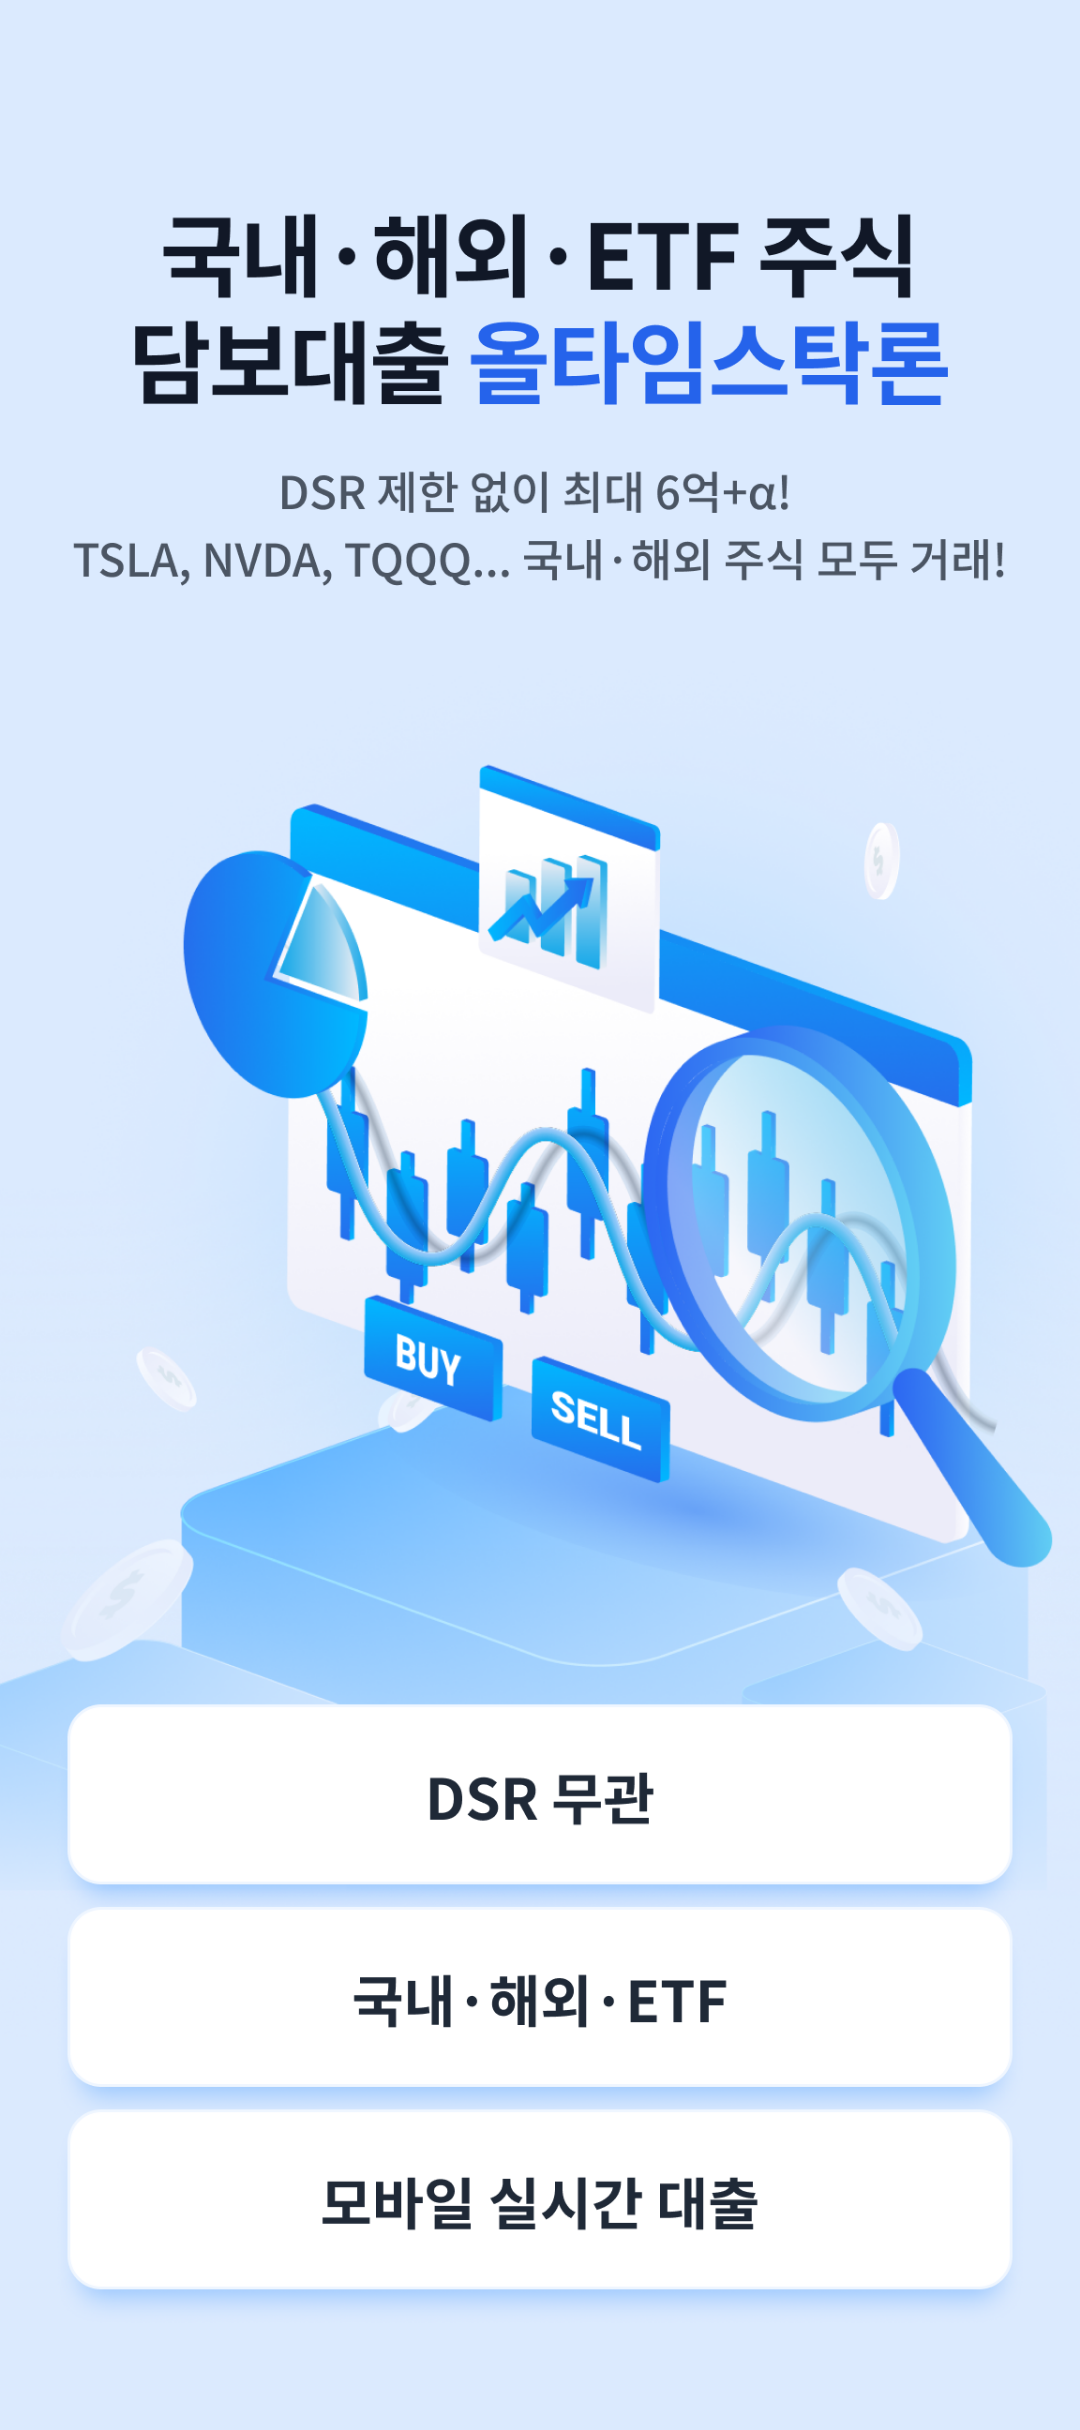
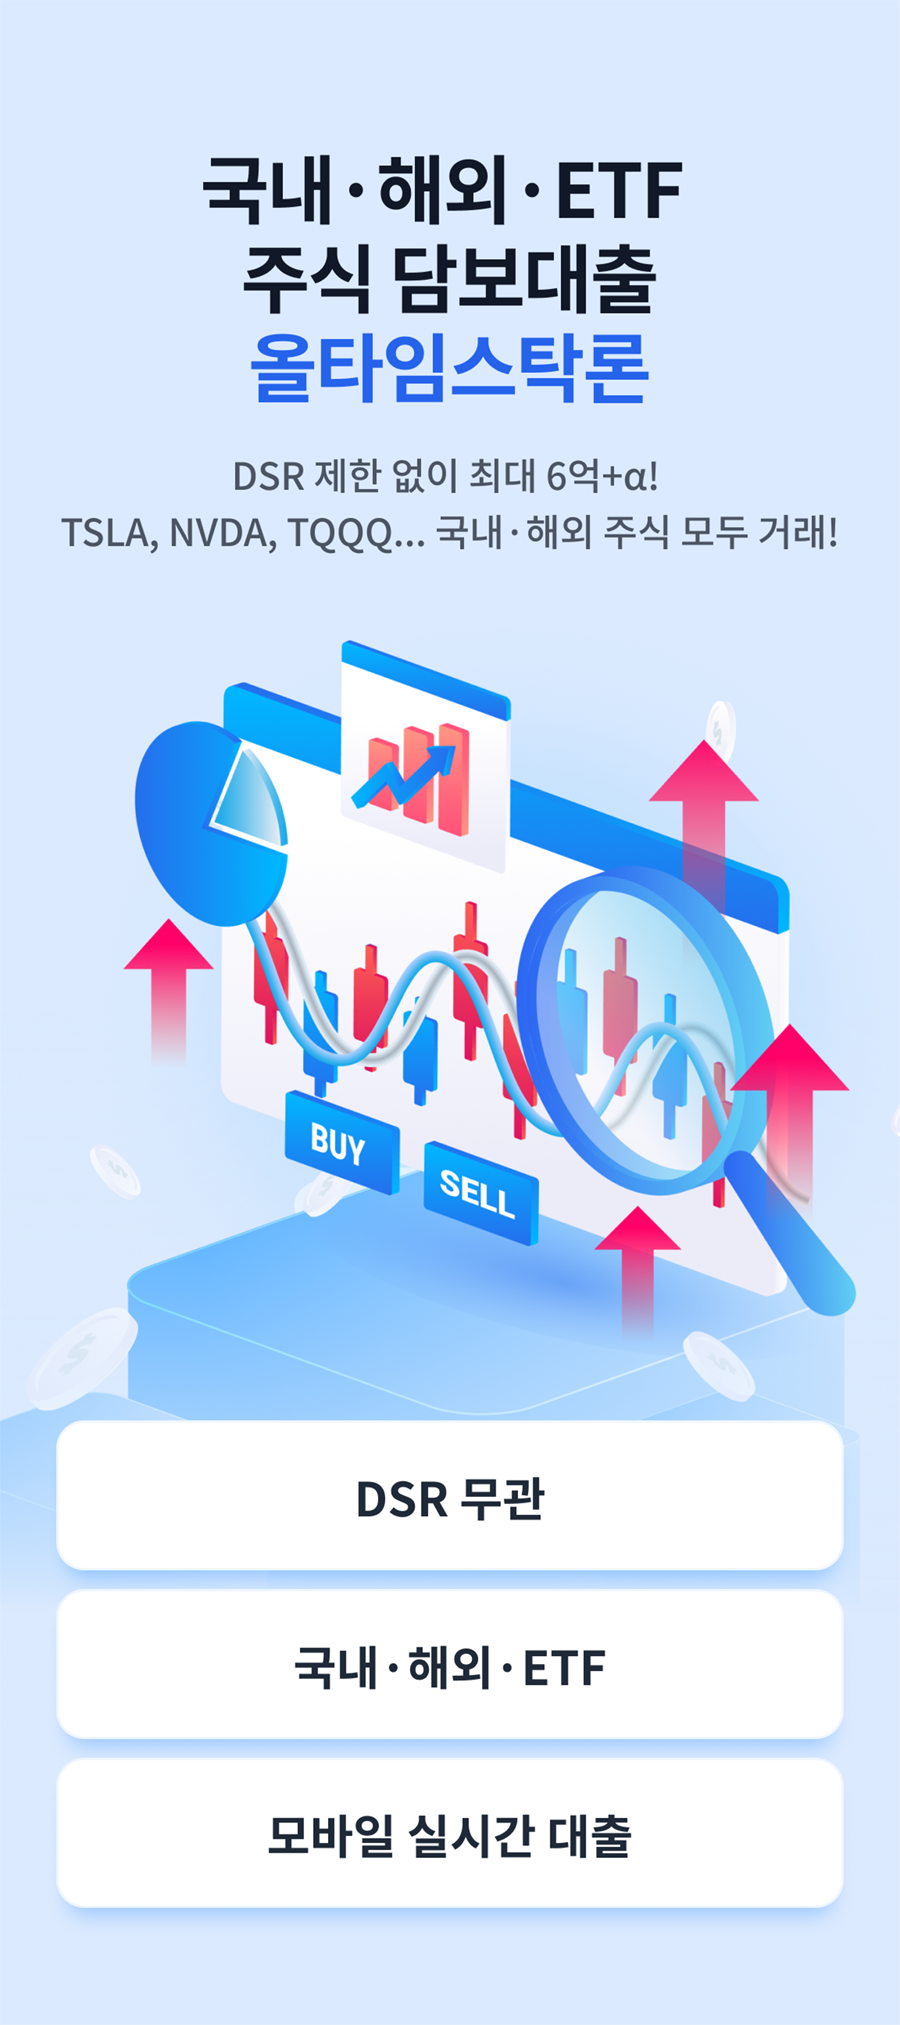
배너 이미지 수정. 간편상담신청 위치 변경.

Changed region(s): [[0.0, 0.3111, 0.9956, 0.7156], [0.0622, 0.0622, 0.9333, 0.28], [0.9956, 0.5289, 1.0, 0.56]]

diff --git a/landing/cpa_atconnect/cpa_atconnect.html b/landing/cpa_atconnect/cpa_atconnect.html
@@ -17,15 +17,19 @@
 <body>
 
 
-<style>
-
-
-</style>
-
 	<div class="cpa_atconnect_wrap">
 		<div class="at_logo">
 			<strong><img src="./images/img_logo_txt.png" alt="에이티코넥"></strong>
 			<a href="#g"><span>간편상담신청</span></a>
+		</div>
+
+		<div class="cpa_img_list">
+			<div class="img">
+				<picture>
+					<source srcset="./images/img_web01.png" media="(min-width:901px)" /> <!-- pc버전 배너 -->
+					<img src="./images/img_mobile01.png" alt="배너" /> <!-- mobile 버전 배너 -->
+				</picture>
+			</div>
 		</div>
 
 
@@ -127,16 +131,7 @@
 		<!-- // fast_contact -->
 
 
-<style>
-.cpa_img_list {max-width:1350px; margin:0 auto;}
-</style>
 		<div class="cpa_img_list">
-			<div class="img">
-				<picture>
-					<source srcset="./images/img_web01.png" media="(min-width:901px)" /> <!-- pc버전 배너 -->
-					<img src="./images/img_mobile01.png" alt="배너" /> <!-- mobile 버전 배너 -->
-				</picture>
-			</div>
 			<div class="img">
 				<picture>
 					<source srcset="./images/img_web02.png" media="(min-width:901px)" /> <!-- pc버전 배너 -->

diff --git a/landing/cpa_atconnect/css/cpa_atconnect.css b/landing/cpa_atconnect/css/cpa_atconnect.css
@@ -81,9 +81,9 @@
 
 
 /* 간편상담신청 */
-.cpa_atconnect_wrap .fast_contact {display:flex; flex-direction:column; gap:30px; width:100%; max-width:520px; margin:0 auto; padding:0 20px 100px;}
+.cpa_atconnect_wrap .fast_contact {display:flex; flex-direction:column; gap:30px; width:100%; max-width:520px; margin:0 auto; padding:60px 20px;}
 @media screen and (max-width:592px) {
-	.cpa_atconnect_wrap .fast_contact {gap:20px; padding:0 20px 20px 20px;}
+	.cpa_atconnect_wrap .fast_contact {gap:20px; padding:20px;}
 }
 /* 간편상담신청 정보입력 */
 .cpa_atconnect_wrap .user_info_form div.tit {padding-bottom:20px; text-align:center;}
@@ -183,6 +183,7 @@
 }
 /* // footer_wrap 공통 */
 
+.cpa_img_list {max-width:1350px; margin:0 auto;}
 
 
 /* sns 상담하기 */
